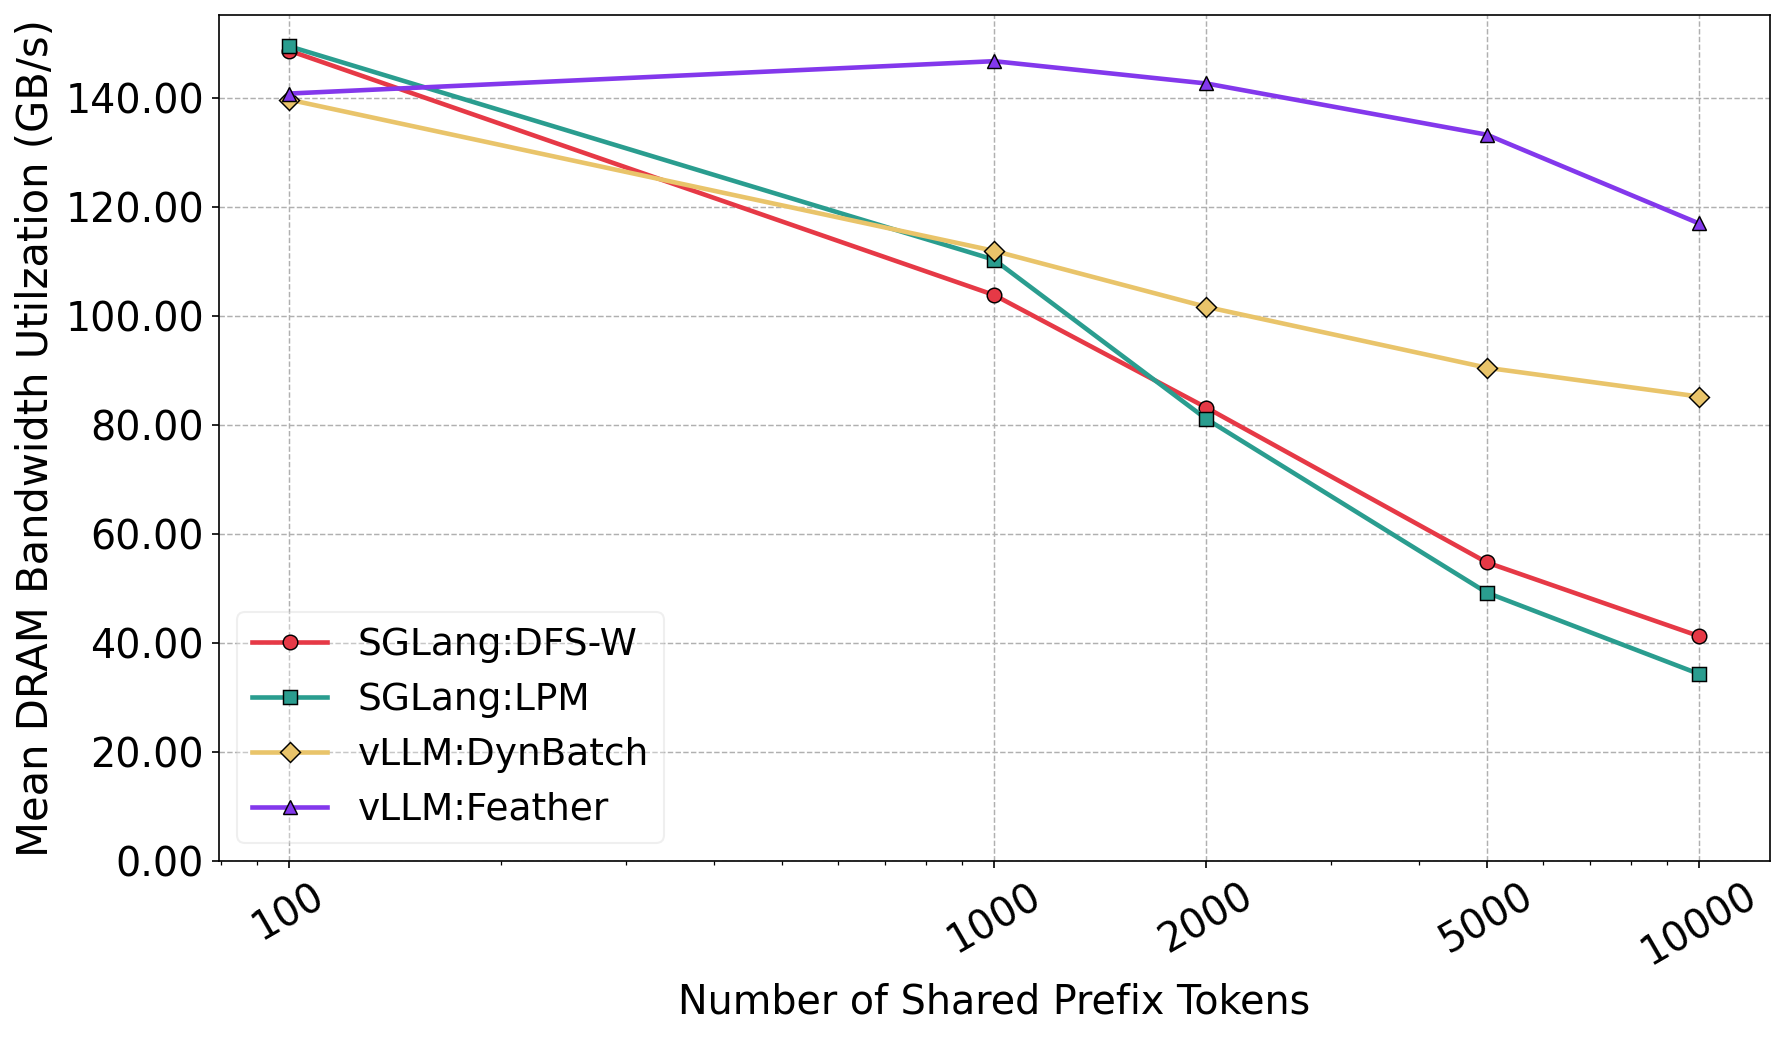
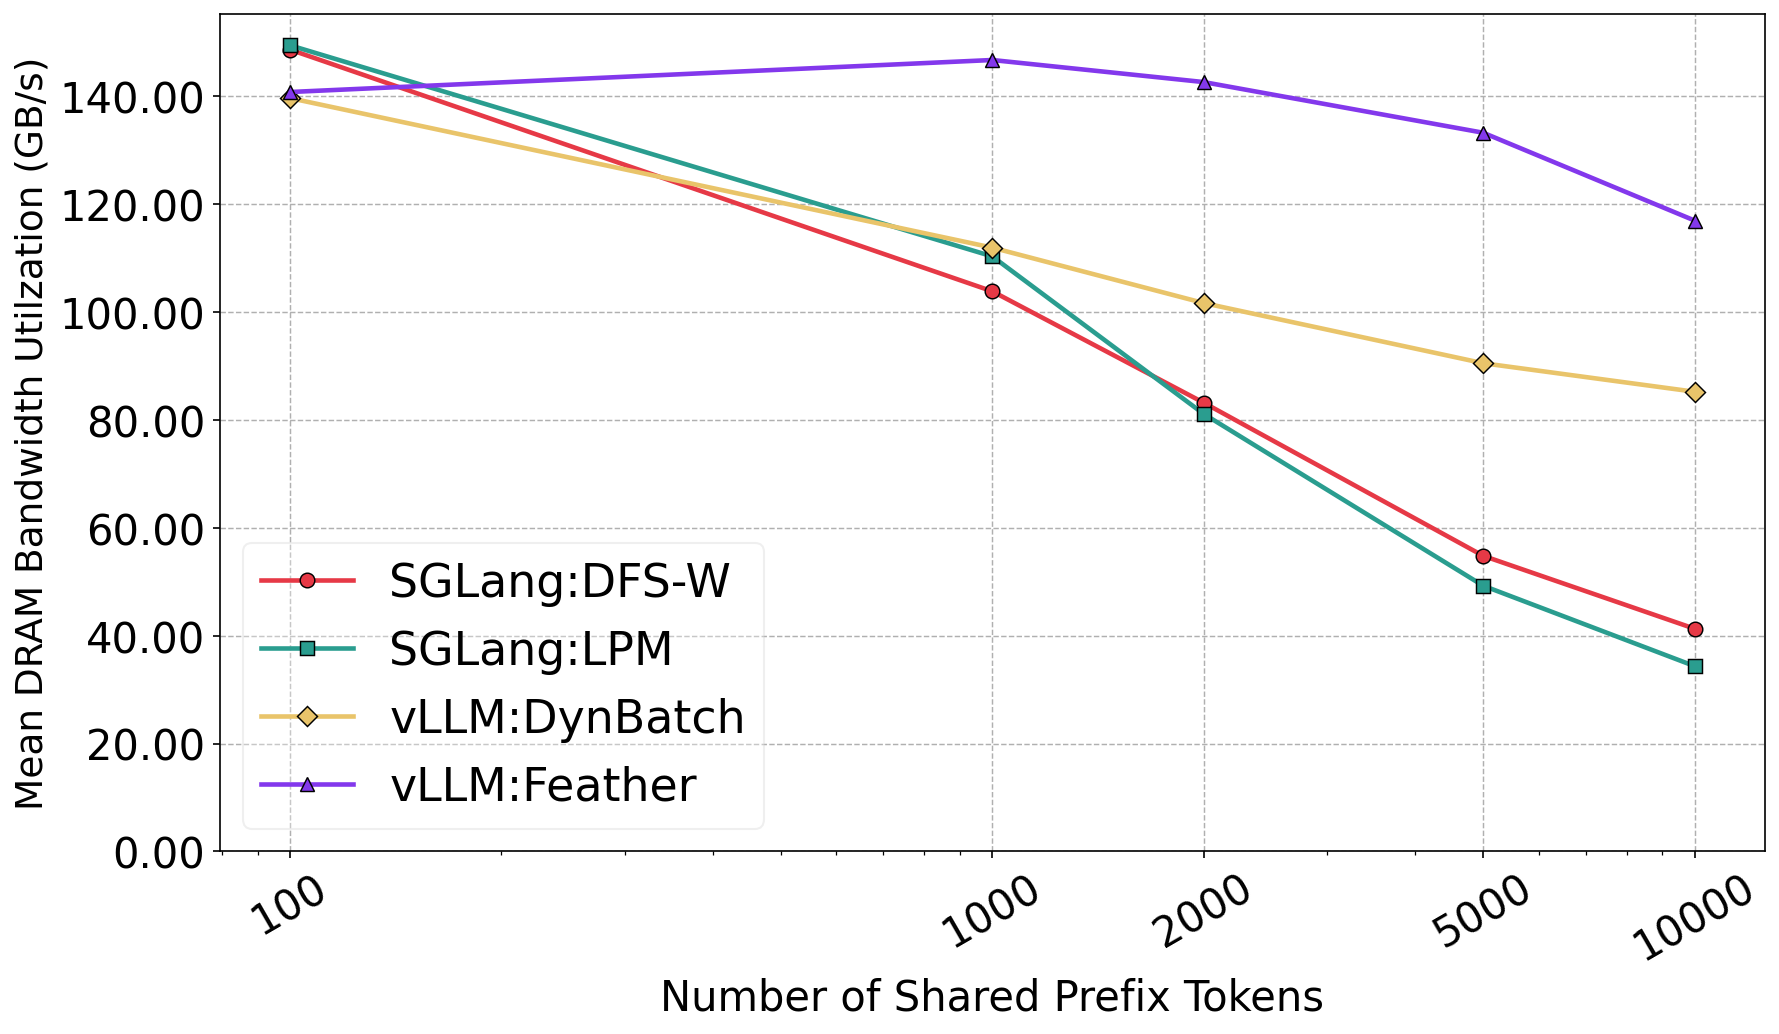
drama plots

diff --git a/code/vllm/sys_prompt_tokens_logs_drama/plot.py b/code/vllm/sys_prompt_tokens_logs_drama/plot.py
@@ -5,7 +5,7 @@ Single script that:
   2. Computes both mean and sum of DRAMA, stores both in results.json.
   3. Generates two plots:
        - Mean DRAM Activity vs Shared Prefix Tokens
-       - Sum  DRAM Activity vs Shared Prefix Tokens
+       - Sum  DRAM Activity vs Shared Prefix Tokens (normalised to max)
 
 results.json structure:
   { model -> engine -> policy -> sptokens (str) -> {"mean": float|null, "sum": float|null} }
@@ -184,13 +184,44 @@ def flatten_data(raw: dict, metric: str) -> dict:
     return data
 
 
+# ── Step 2b: Normalise sum data to fraction of global max ─────────────────────
+def normalise_to_max(data: dict) -> dict:
+    """
+    Rescales all values in `data` so that the global maximum across all
+    labels and token points equals 1.0.  None / NaN values are preserved.
+
+    Returns a new dict with the same structure.
+    """
+    # Collect every finite value to find the global max
+    all_vals = [
+        v
+        for series in data.values()
+        for v in series.values()
+        if v is not None and not np.isnan(v)
+    ]
+    if not all_vals:
+        return data  # nothing to normalise
+
+    global_max = max(all_vals)
+    if global_max == 0:
+        return data  # avoid division by zero
+
+    normalised = {}
+    for label, series in data.items():
+        normalised[label] = {
+            tok: (v / global_max if (v is not None and not np.isnan(v)) else v)
+            for tok, v in series.items()
+        }
+    return normalised
+
+
 # ── Step 3: Plot one metric ───────────────────────────────────────────────────
-def plot_metric(data: dict, metric: str, out_dir: str) -> None:
+def plot_metric(data: dict, metric: str, out_dir: str, normalised: bool = False) -> None:
     all_tokens = sorted({tok for series in data.values() for tok in series})
 
     ylabel_map = {
         "mean": "Mean DRAM Bandwidth Utilzation (GB/s)",
-        "sum":  "Total DRAM Data Accessed (PB)",
+        "sum":  "Total DRAM Data Accessed (fraction of max)",
     }
     fname_map = {
         "mean": "mean_dram_vs_sys_prompt_tokens.png",
@@ -231,18 +262,24 @@ def plot_metric(data: dict, metric: str, out_dir: str) -> None:
         )
 
     ax.set_xscale("log")
-    ax.set_xlabel("Number of Shared Prefix Tokens", fontsize=19)
-    ax.set_ylabel(ylabel_map[metric],               fontsize=20)
+    ax.set_xlabel("Number of Shared Prefix Tokens", fontsize=20)
+    ax.set_ylabel(ylabel_map[metric],               fontsize=18)
 
     ax.set_xticks(all_tokens)
     ax.set_xticklabels(all_tokens, rotation=30)
     ax.get_xaxis().set_major_formatter(ticker.ScalarFormatter())
-    ax.tick_params(axis="both", labelsize=19)
-    ax.yaxis.set_major_formatter(ticker.FormatStrFormatter("%.2f"))
+    ax.tick_params(axis="both", labelsize=20)
 
-    ax.legend(fontsize=18, framealpha=0.3, ncol=1)
+    if metric == "sum":
+        # Show as 0.00–1.00 on y-axis
+        ax.yaxis.set_major_formatter(ticker.FormatStrFormatter("%.2f"))
+        ax.set_ylim(0, 1.05)
+    else:
+        ax.yaxis.set_major_formatter(ticker.FormatStrFormatter("%.2f"))
+        ax.set_ylim(bottom=0)
+
+    ax.legend(fontsize=22, framealpha=0.3, ncol=1)
     ax.grid(True, linewidth=0.7, linestyle="--")
-    ax.set_ylim(bottom=0)
     plt.tight_layout()
     fig.savefig(outpath, dpi=150, bbox_inches="tight", facecolor=fig.get_facecolor())
     plt.close(fig)
@@ -261,6 +298,8 @@ def main():
     # 3. Generate one plot per metric
     for metric in ("mean", "sum"):
         data = flatten_data(raw, metric)
+        if metric == "sum":
+            data = normalise_to_max(data)
         plot_metric(data, metric, OUT_DIR)
 
 
